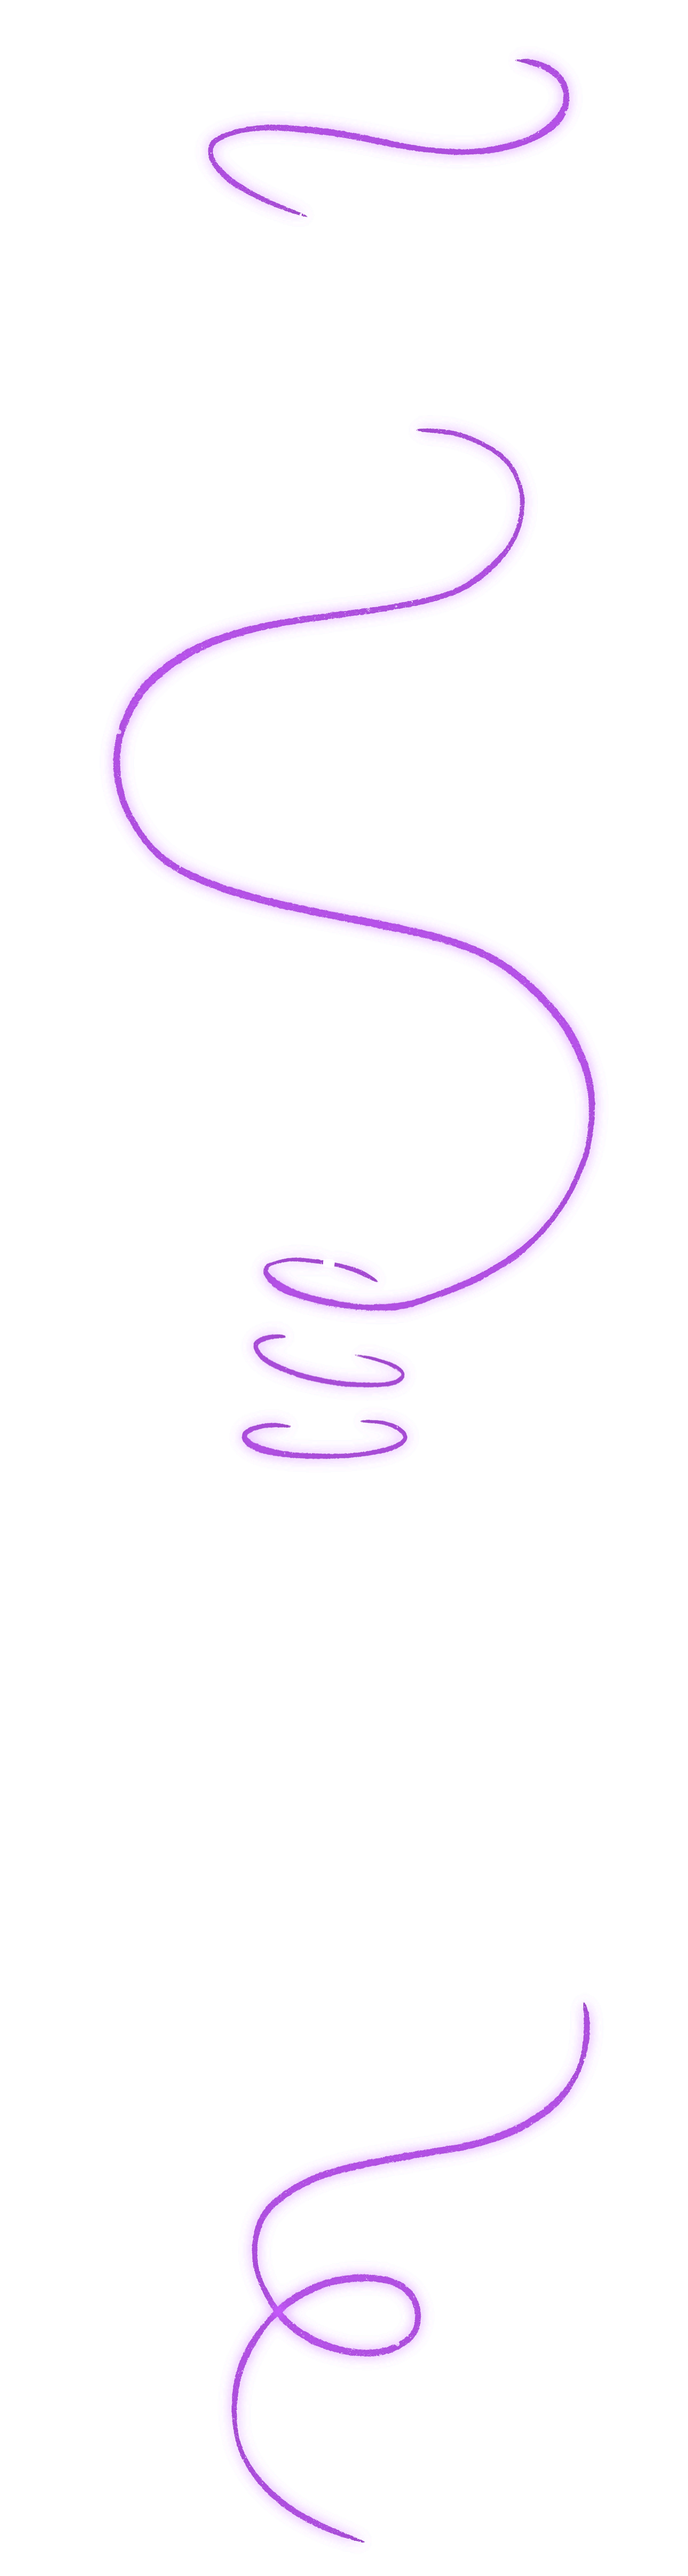
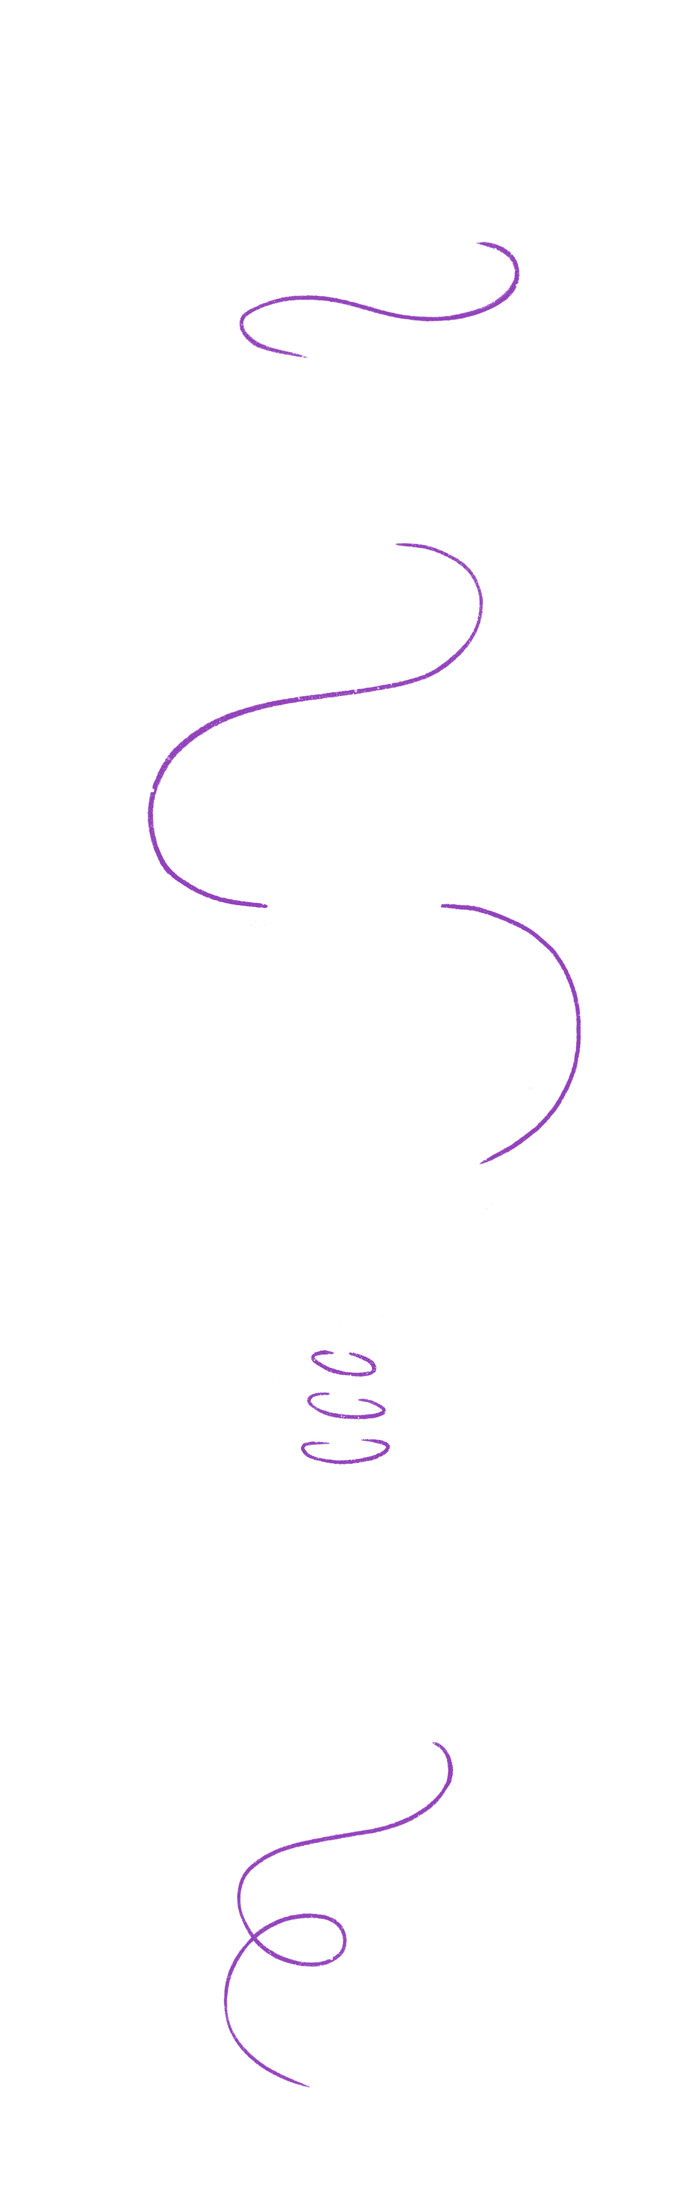
Improved section 2

diff --git a/src/components/Infographic2.vue b/src/components/Infographic2.vue
@@ -6,12 +6,8 @@
             <img src="@/assets/images/infographic/part2/log1.png" id="log1">
             <img src="@/assets/videos/malbrush_blinking2.gif" id="malbrush_blinking2">
             <img src="@/assets/images/infographic/part2/cliffs.png" id="cliffs">
-            <img src="@/assets/images/infographic/part2/Infographic_Section_2.png" id="temp">
-
-            
             
             <img src="@/assets/images/infographic/part2/darkness.png" id="darkness">
-
 
             <img src="@/assets/images/infographic/part2/brush1.png" id="brush1" draggable="true" @dragstart="handleDragStart">
             <img src="@/assets/images/infographic/part2/canvas.png" class="canvas">
@@ -26,7 +22,7 @@
             <img src="@/assets/images/infographic/part2/text9.png" id="text9" class="text scroll_reveal">
 
             <img src="@/assets/images/infographic/part2/brush_light.png" id="brush_light">
-            <img src="@/assets/images/infographic/part2/brush2.png" id="brush2">
+            <img src="@/assets/images/infographic/part2/brush1.png" id="brush2">
             <img src="@/assets/images/infographic/part2/light_swirls.png" id="swirls">
             
         </div>
@@ -89,18 +85,14 @@ export default {
     
 }
 
-#temp{
-    position: absolute;
-    top: 505vw;
-    left: 0vw;
-    width: 100vw;  
-}
-
 #swirls{
     position: absolute;
-    top: 147vw;
+    top: 120vw;
     left: 0vw;
     width: 100vw;
+    animation: swirlPulse 4s ease-in-out infinite;
+    pointer-events: none;
+    mix-blend-mode: screen;
 }
 
 #brush1 {
@@ -111,20 +103,20 @@ export default {
     cursor: grab;
     z-index: 999;
     animation: glowfloat 3s ease-in-out infinite;
-    transition: transform 0.8s ease-in-out !important;
+    transition: transform 0.8s ease-in-out !important;  
 }
 
 #brush2 {
     position: absolute;
-    top: 317vw;
-    left: 44.5vw;
-    width: 8vw;
+    top: 307vw;
+    left: 47.5vw;
+    width: 5.5vw;
     animation: float 3s ease-in-out infinite;
 }
 
 #brush_light{
     position: absolute;
-    top: 260vw;
+    top: 240vw;
     left: 0vw;
     width: 100vw;
     opacity: 0.7;
@@ -163,49 +155,49 @@ export default {
 
 #text4{
     position: absolute;
-    top: 144vw;
-    left: 31vw;
-    width: 38vw;
+    top: 144.5vw;
+    left: 34.5vw;
+    width: 35vw;
     height: auto;
 }
 
 #text5{
     position: absolute;
-    top: 198vw;
-    left: 31.2vw;
-    width: 39vw;
+    top: 188.5vw;
+    left: 37vw;
+    width: 34vw;
     height: auto;
 }
 
 #text6{
     position: absolute;
-    top: 255vw;
-    left: 38.2vw;
-    width: 24vw;
+    top: 249vw;
+    left: 40.5vw;
+    width: 21vw;
     height: auto;
 }
 
 #text7{
     position: absolute;
-    top: 298vw;
-    left: 34vw;
-    width: 32vw;
+    top: 286vw;
+    left: 37vw;
+    width: 29vw;
     height: auto;
 }
 
 #text8{
     position: absolute;
-    top: 400vw;
-    left: 28vw;
-    width: 44vw;
+    top: 352vw;
+    left: 35vw;
+    width: 30vw;
     height: auto;
 }
 
 #text9{
     position: absolute;
-    top: 432vw;
-    left: 24vw;
-    width: 52vw;
+    top: 366vw;
+    left: 32.5vw;
+    width: 35vw;
     height: auto;
 }
 
@@ -239,6 +231,21 @@ export default {
 
     100% {
         transform: translateY(0);
+    }
+}
+
+@keyframes swirlPulse {
+    0% {
+        filter: drop-shadow(0 0 0.2vw rgba(146, 65, 187, 0.3));
+        opacity: 0.6;
+    }
+    50% {
+        filter: drop-shadow(0 0 0.8vw rgba(165, 77, 209, 0.9));
+        opacity: 1;
+    }
+    100% {
+        filter: drop-shadow(0 0 0.2vw rgba(146, 65, 187, 0.3));
+        opacity: 0.6;
     }
 }
     
